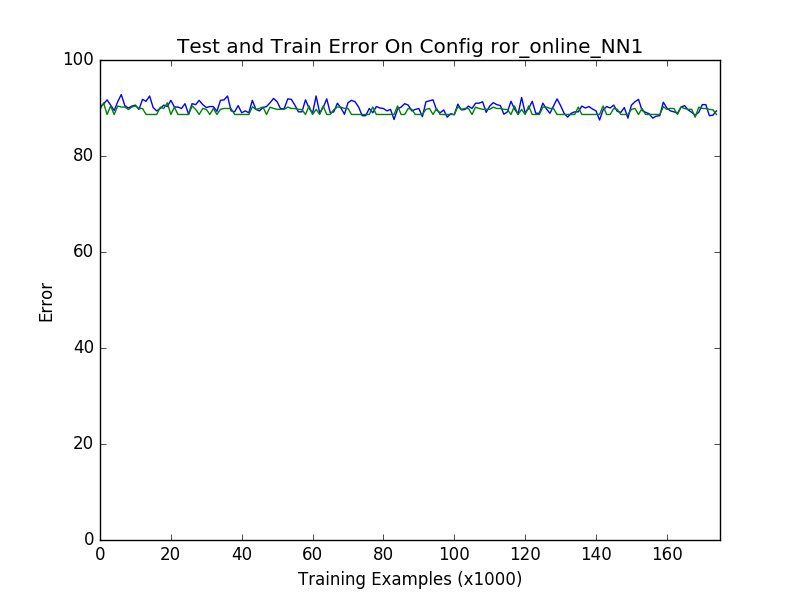
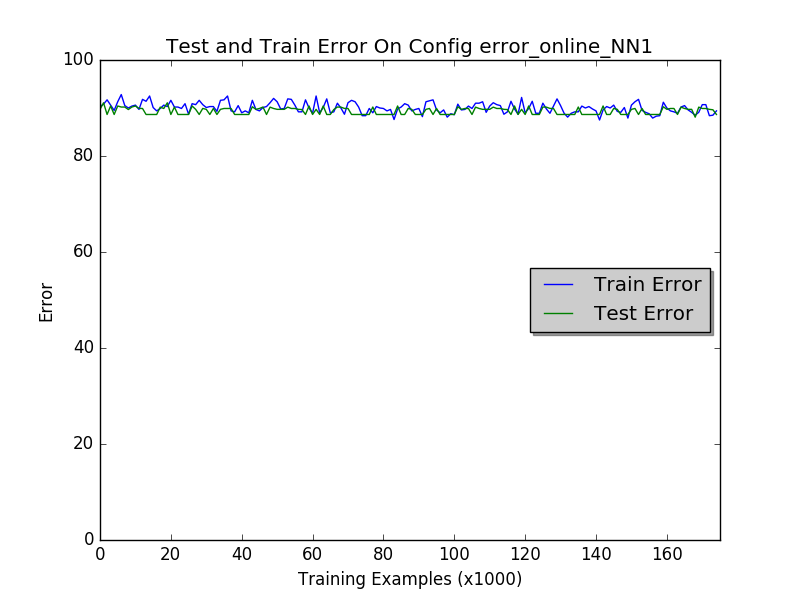
Bashes, plots, and all of those thots

Changed region(s): [[0.6562, 0.42, 0.9062, 0.57], [0.1875, 0.06, 0.8125, 0.09]]

diff --git a/trainplot.py b/trainplot.py
@@ -1,30 +1,28 @@
 import matplotlib.pyplot as plt
 import numpy as np
 import pickle as cucumber
+import argparse
 
-title = 'ASDFASDFASDF';
-output_filename = 'asdf'
+parser = argparse.ArgumentParser()
+parser.add_argument('--filename', type=str, default = '-1')
+args = parser.parse_args()
+infilename = args.filename
+output_filename  = infilename[10:-7] 
 
-training_error_file = 'pickles/train_error_online_NN3.pickle'
-# test_error_file = 'pickles/test_error_online_NN3.pickle'
+training_error_file = infilename
+title = 'Train Error On Config '+ infilename[10:-7]
 
 with open(training_error_file,'r') as f:
   train_error = cucumber.load(f);
 
-# with open(test_error_file,'r') as f:
-#   test_error = cucumber.load(f);
-
 train_error_fixed = train_error[0];
-# test_error_fixed = test_error[0]
 for i in range(1,len(train_error)):
   if (i%59):
     train_error_fixed = np.append(train_error_fixed, train_error[i]);
-    # test_error_fixed = np.append(test_error_fixed, test_error[i]);
 
 x_vals = range(0,len(train_error_fixed));
 
 plt.plot(x_vals, train_error_fixed)
-# plt.plot(x_vals, test_error_fixed)
 
 axes = plt.gca()
 axes.set_xlim([0,len(x_vals)])
@@ -35,4 +33,3 @@ plt.ylabel('Error')
 plt.title(title)
 plt.grid(False)
 plt.savefig("outputPlots/" + output_filename)
-plt.show()

diff --git a/testplot.py b/testplot.py
@@ -11,7 +11,7 @@ output_filename  = infilename[11:-7]
 
 training_error_file = infilename
 test_error_file = 'ttpickle/test' + infilename[16:]
-title = 'Test and Train Error On Config '+ infilename[19:-7]
+title = 'Test and Train Error On Config '+ infilename[17:-7]
 
 with open(training_error_file,'r') as f:
   train_error = cucumber.load(f);
@@ -28,8 +28,11 @@ for i in range(1,len(train_error)):
 
 x_vals = range(0,len(train_error_fixed));
 
-plt.plot(x_vals, train_error_fixed)
-plt.plot(x_vals, test_error_fixed)
+train = plt.plot(x_vals, train_error_fixed, label="Train Error")
+test = plt.plot(x_vals, test_error_fixed, label="Test Error")
+legend = plt.legend(loc='center right', shadow=True, fontsize='large')
+legend.get_frame().set_facecolor('#CCCCCC')
+
 
 axes = plt.gca()
 axes.set_xlim([0,len(x_vals)])
